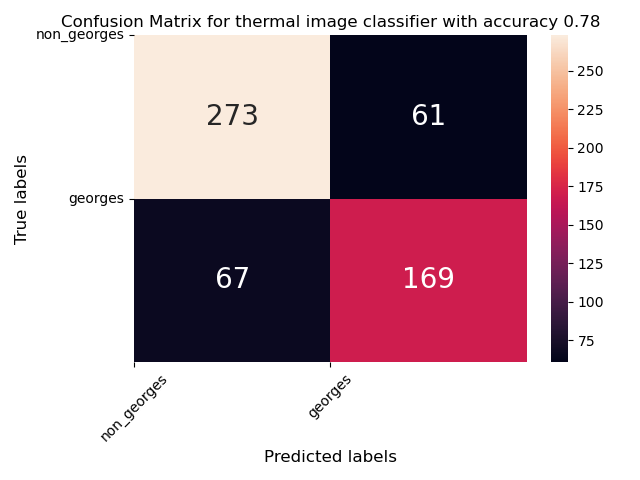
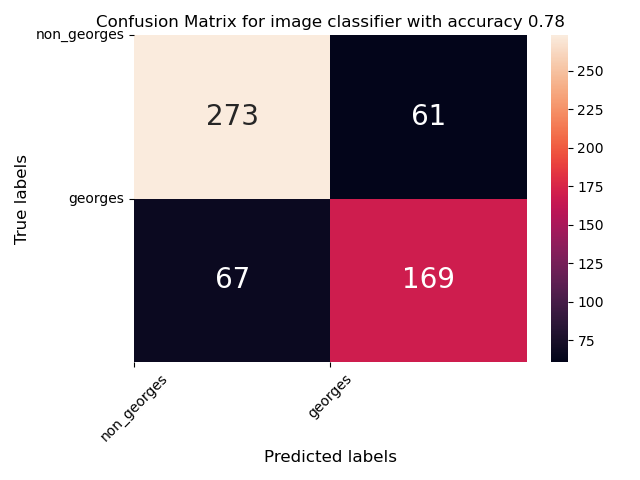
cm

Changed region(s): [[0.0938, 0.0312, 0.9375, 0.0625]]

diff --git a/unseen-inference-metrics.py b/unseen-inference-metrics.py
@@ -35,7 +35,7 @@ ax.set_yticks(range(len(classes_values)))
 # labels, title and ticks
 ax.set_xlabel('Predicted labels', fontsize=12)
 ax.set_ylabel('True labels', fontsize=12)
-ax.set_title(f'Confusion Matrix for thermal image classifier with accuracy {round(acc, 2)}')
+ax.set_title(f'Confusion Matrix for image classifier with accuracy {round(acc, 2)}')
 ax.xaxis.set_ticklabels(classes_values, fontsize=10, rotation=45)
 ax.yaxis.set_ticklabels(classes_values, fontsize=10, rotation=0)
 plt.tight_layout()
